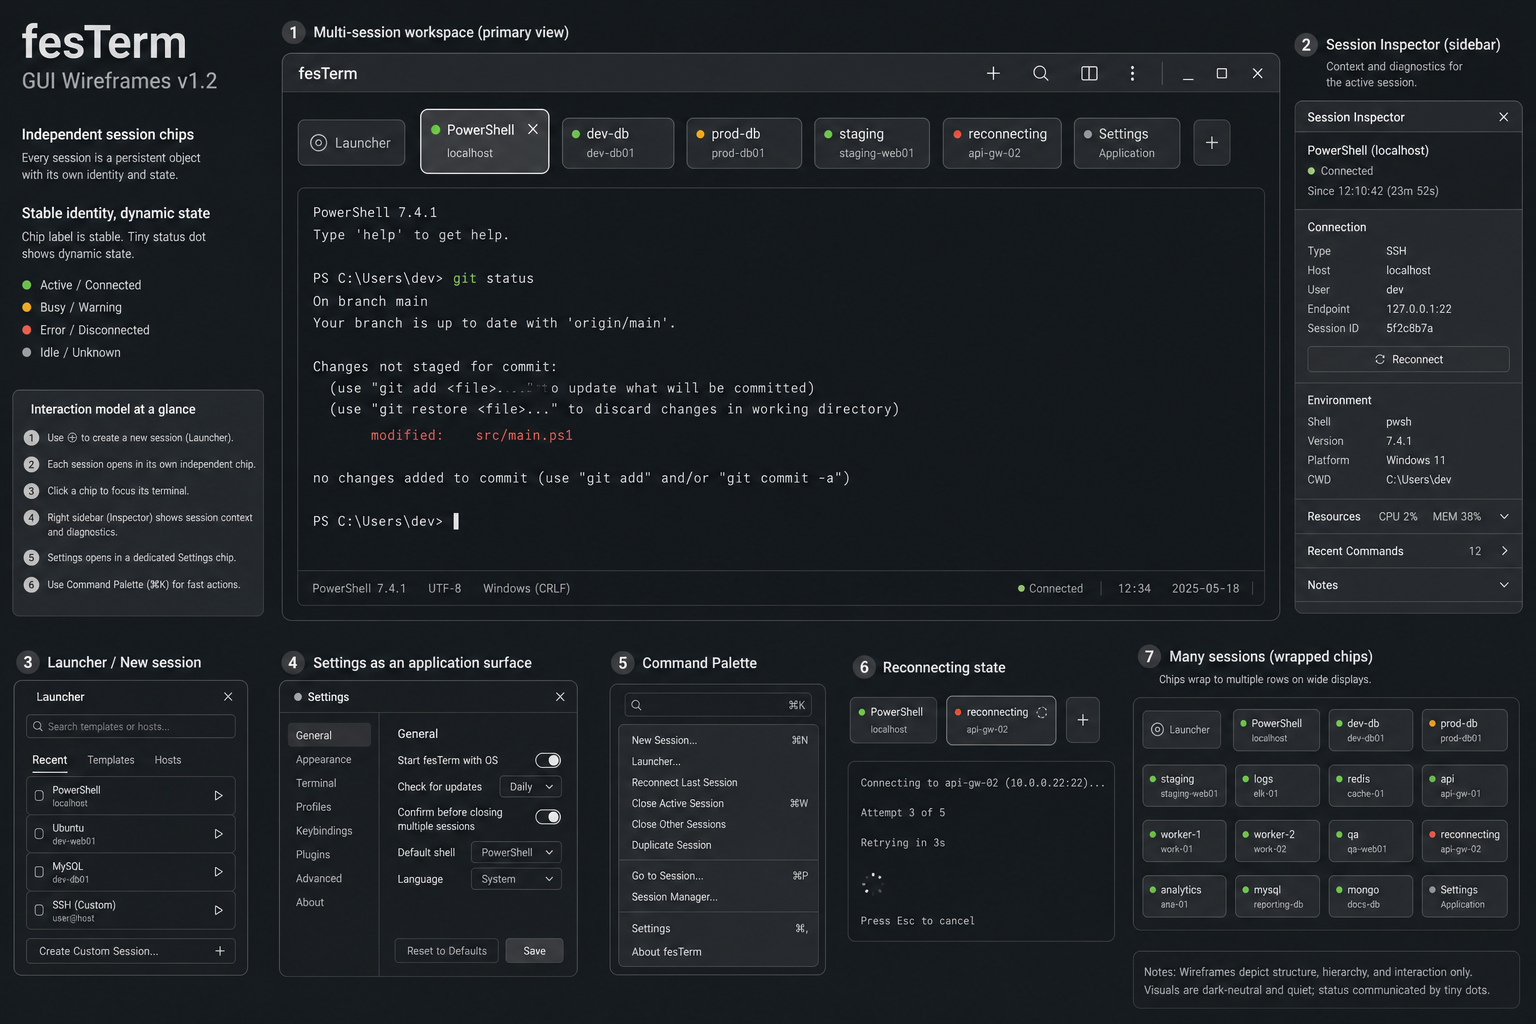
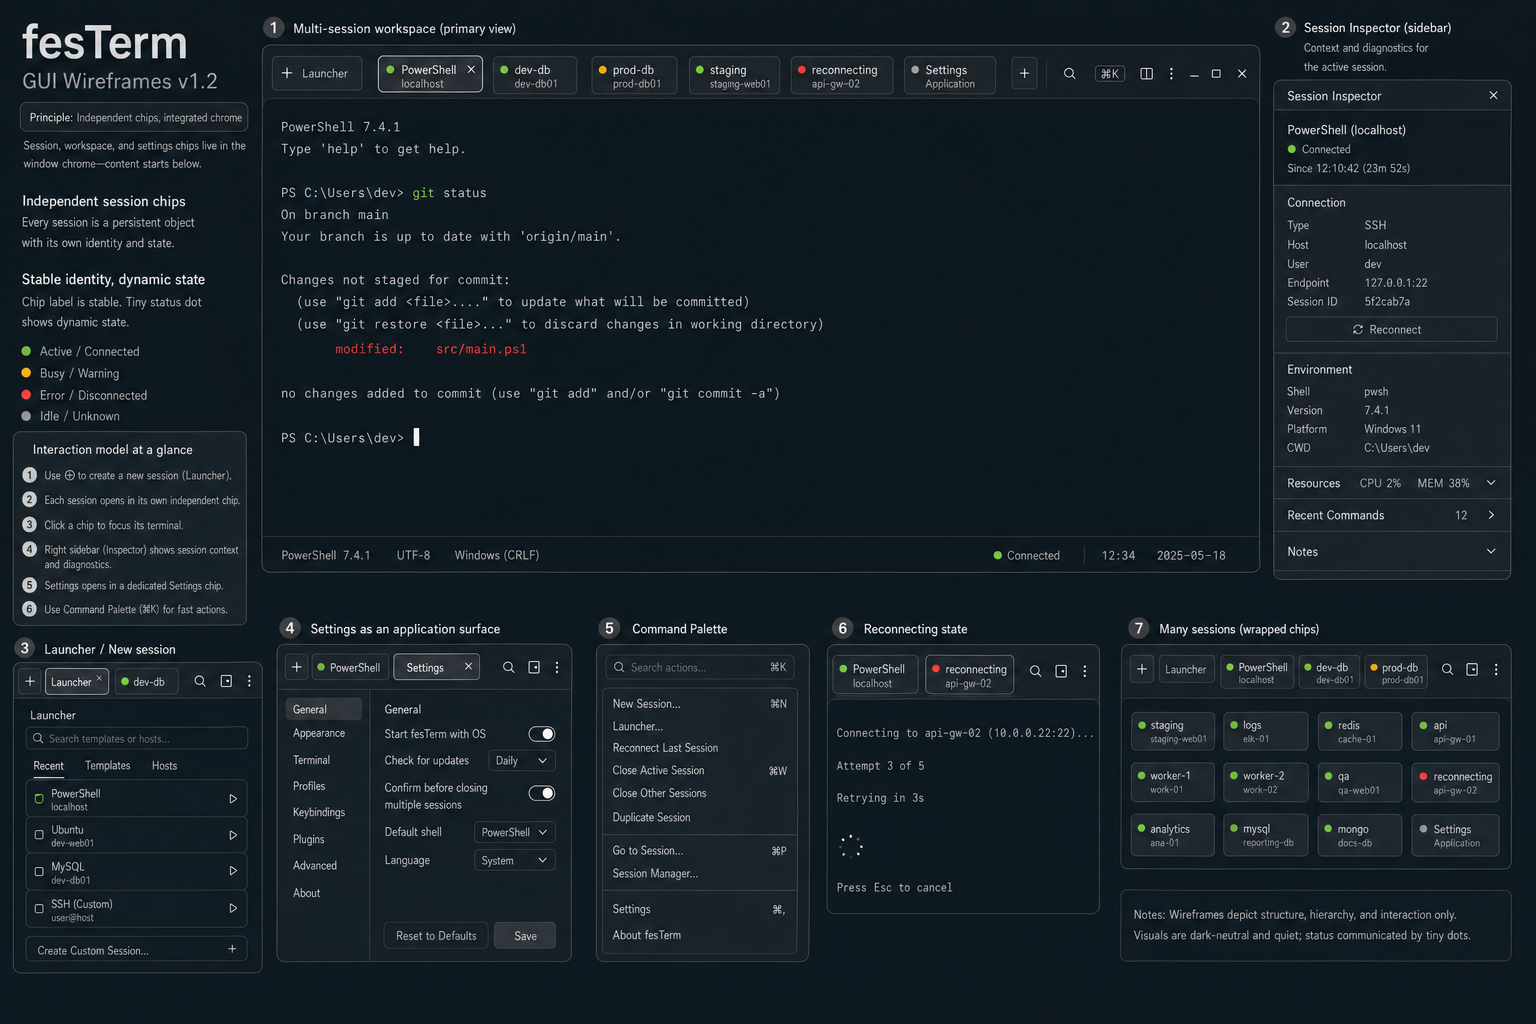
docs: integrate session chips into window chrome

Changed region(s): [[0.0, 0.0, 1.0, 0.9688], [0.9688, 0.0938, 1.0, 0.125]]

diff --git a/docs/gui-design.md b/docs/gui-design.md
@@ -125,7 +125,7 @@ The default window has three conceptual zones:
 
 ```text
 +------------------------------------------------------+
-| Tab strip, session identity, global window actions   |
+| Integrated chrome: session chips + global actions   |
 +------------------------------------------------------+
 |                                                      |
 | Terminal viewport or launcher content                |
@@ -137,7 +137,7 @@ The default window has three conceptual zones:
 
 ### Tab strip
 
-The tab strip provides session switching and identity. It should be compact and visually integrated with the upper application chrome.
+The chip row provides session switching and identity. It is part of the upper application chrome, sharing the top-of-window band with New Tab and compact global controls. The chips remain visually independent through spacing, shape, border, and elevation—not by moving them onto a separate shelf.
 
 ### Main content
 
@@ -148,7 +148,7 @@ The main content is either a terminal viewport, launcher, settings page, or diag
 Global application actions and session-specific context are separate concerns.
 
 - The upper application chrome owns compact global actions: New Tab/Launcher, command palette or search, session-inspector toggle, and a deliberately small overflow menu.
-- The session chips sit on a distinct surface below or within the chrome with enough separation to appear as independent objects.
+- The session chips live inside the upper application chrome, in the same top-of-window band as New Tab and compact global controls. They are independent because each lozenge has visible space around it—not because the row is separated from the chrome.
 - The right-side session inspector is normally hidden and shows context for the active session: connection state, host/profile metadata, environment, diagnostics, and relevant actions.
 - Global Settings do not live in the inspector. Settings open as an application surface represented by their own chip, and remain reachable from the command palette and compact overflow menu.
 
@@ -175,6 +175,7 @@ Session tabs are independent lozenges or chips, not connected browser-style or r
 
 Implementation requirements:
 
+- Place the chip row inside the top window-chrome band; terminal, launcher, or settings content begins immediately below that integrated chrome.
 - Preserve visible space around every chip; adjacent chips must never merge into a continuous tab strip.
 - Keep chip surfaces neutral. Connection color belongs in a small status indicator, not across the whole chip.
 - Indicate the active chip with a slightly brighter surface, stronger border, subtle elevation, and optionally a small height difference. Do not depend on a saturated accent fill.
@@ -184,7 +185,7 @@ Implementation requirements:
 - Design chip layout for both horizontal overflow and an optional multi-row wrapping mode. Wrapping must remain user-configurable because some users will prefer a single scrolling row.
 - Preserve semantic tab roles, keyboard order, accessible names, focus indication, and close behavior even when the visual treatment is chip-like.
 
-The wireframe in [Canonical Wireframe](#canonical-wireframe) is the visual contract for these requirements. Connected browser tabs, file-folder tabs, full-chip status colors, and constantly changing primary labels are non-conforming implementations.
+The wireframe in [Canonical Wireframe](#canonical-wireframe) is the visual contract for these requirements. A detached chip shelf below a separate title bar, connected browser tabs, file-folder tabs, full-chip status colors, and constantly changing primary labels are non-conforming implementations.
 
 ### Tab anatomy
 

diff --git a/AGENTS.md b/AGENTS.md
@@ -69,8 +69,10 @@ macOS, and Linux.
   milestone; do not pull future product requests into the current scope.
 - Treat `docs/gui-design.md` and its canonical wireframe as the source of truth
   for application chrome and session-tab work. Session tabs are independent,
-  neutral lozenge/chip objects; preserve stable identity and use compact status
-  indicators instead of full-chip state colors.
+  neutral lozenge/chip objects embedded directly in the upper window chrome,
+  alongside New Tab and compact global controls. Do not place them on a
+  detached shelf below a separate title bar. Preserve stable identity and use
+  compact status indicators instead of full-chip state colors.
 - Do not duplicate long design documents in new summaries; link to the source
   of truth instead.
 - Treat terminal output and protocol input as untrusted. Preserve parser,
